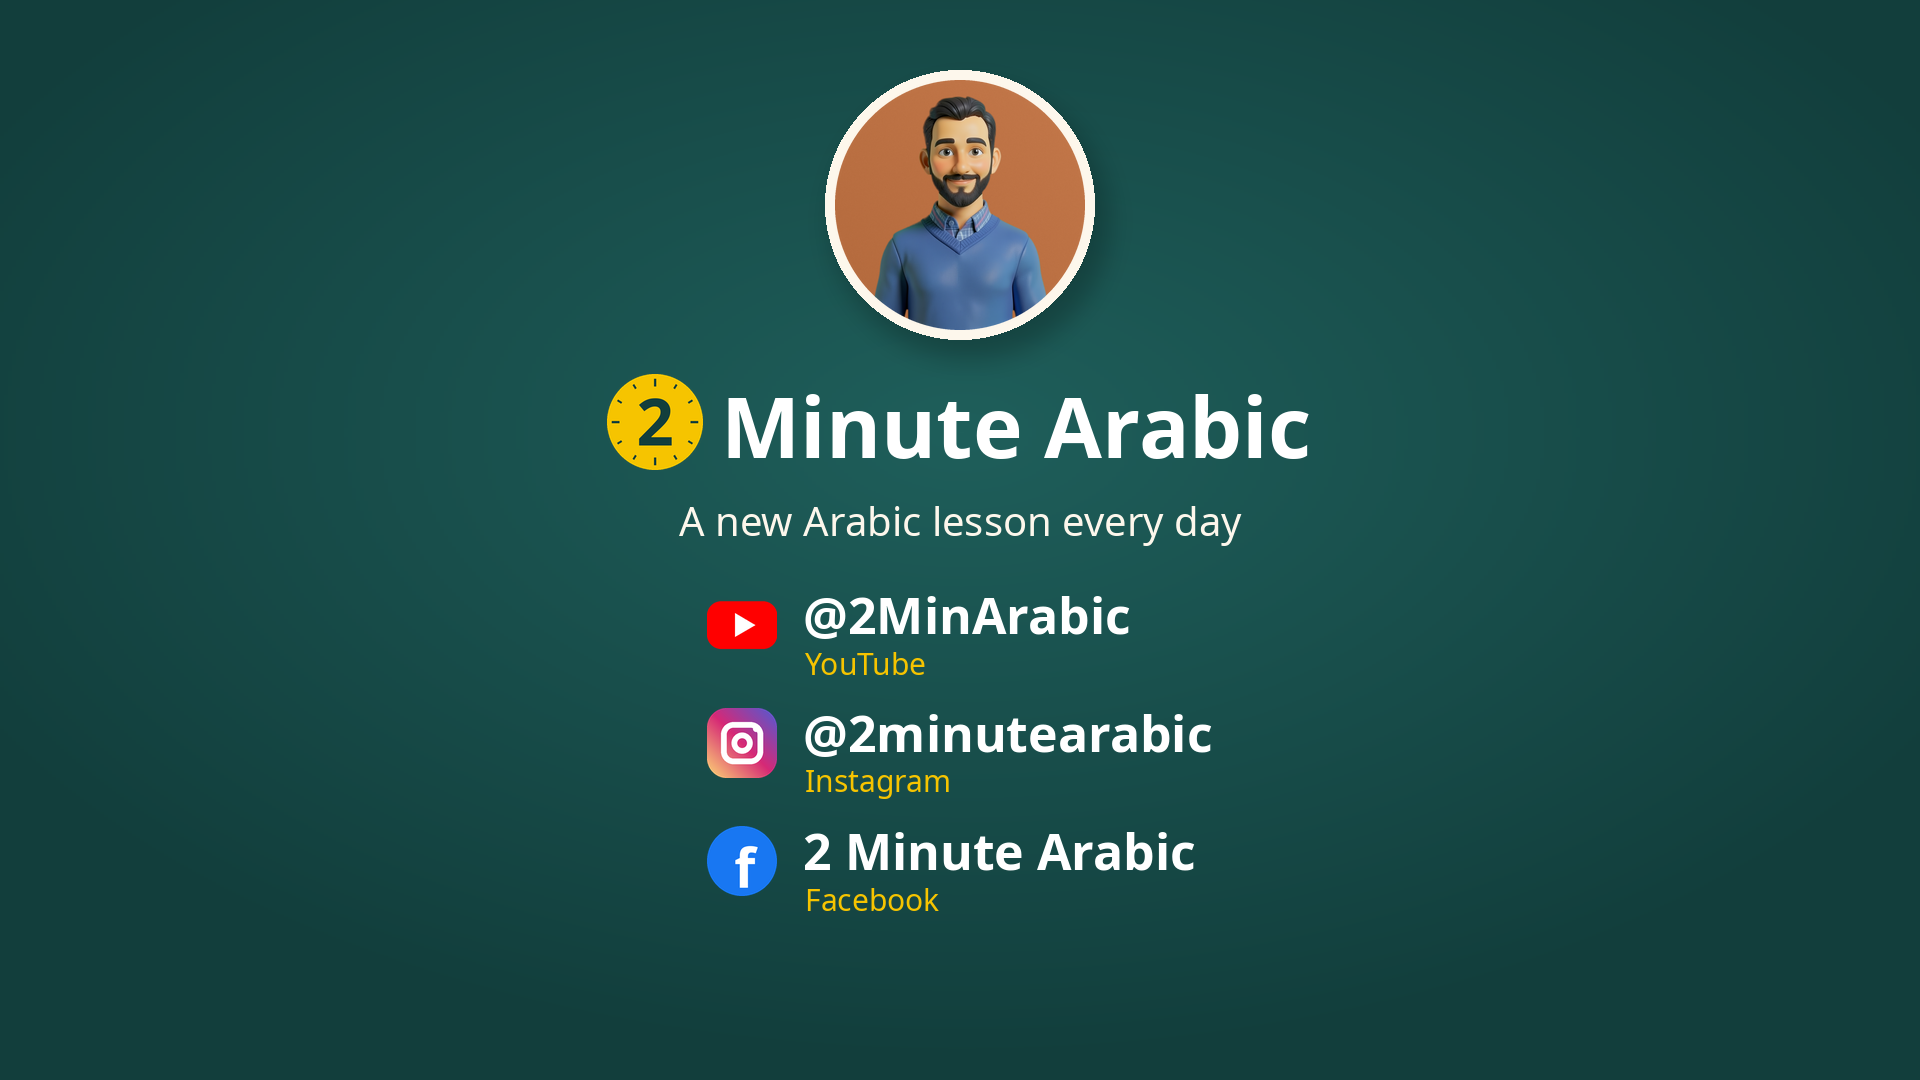
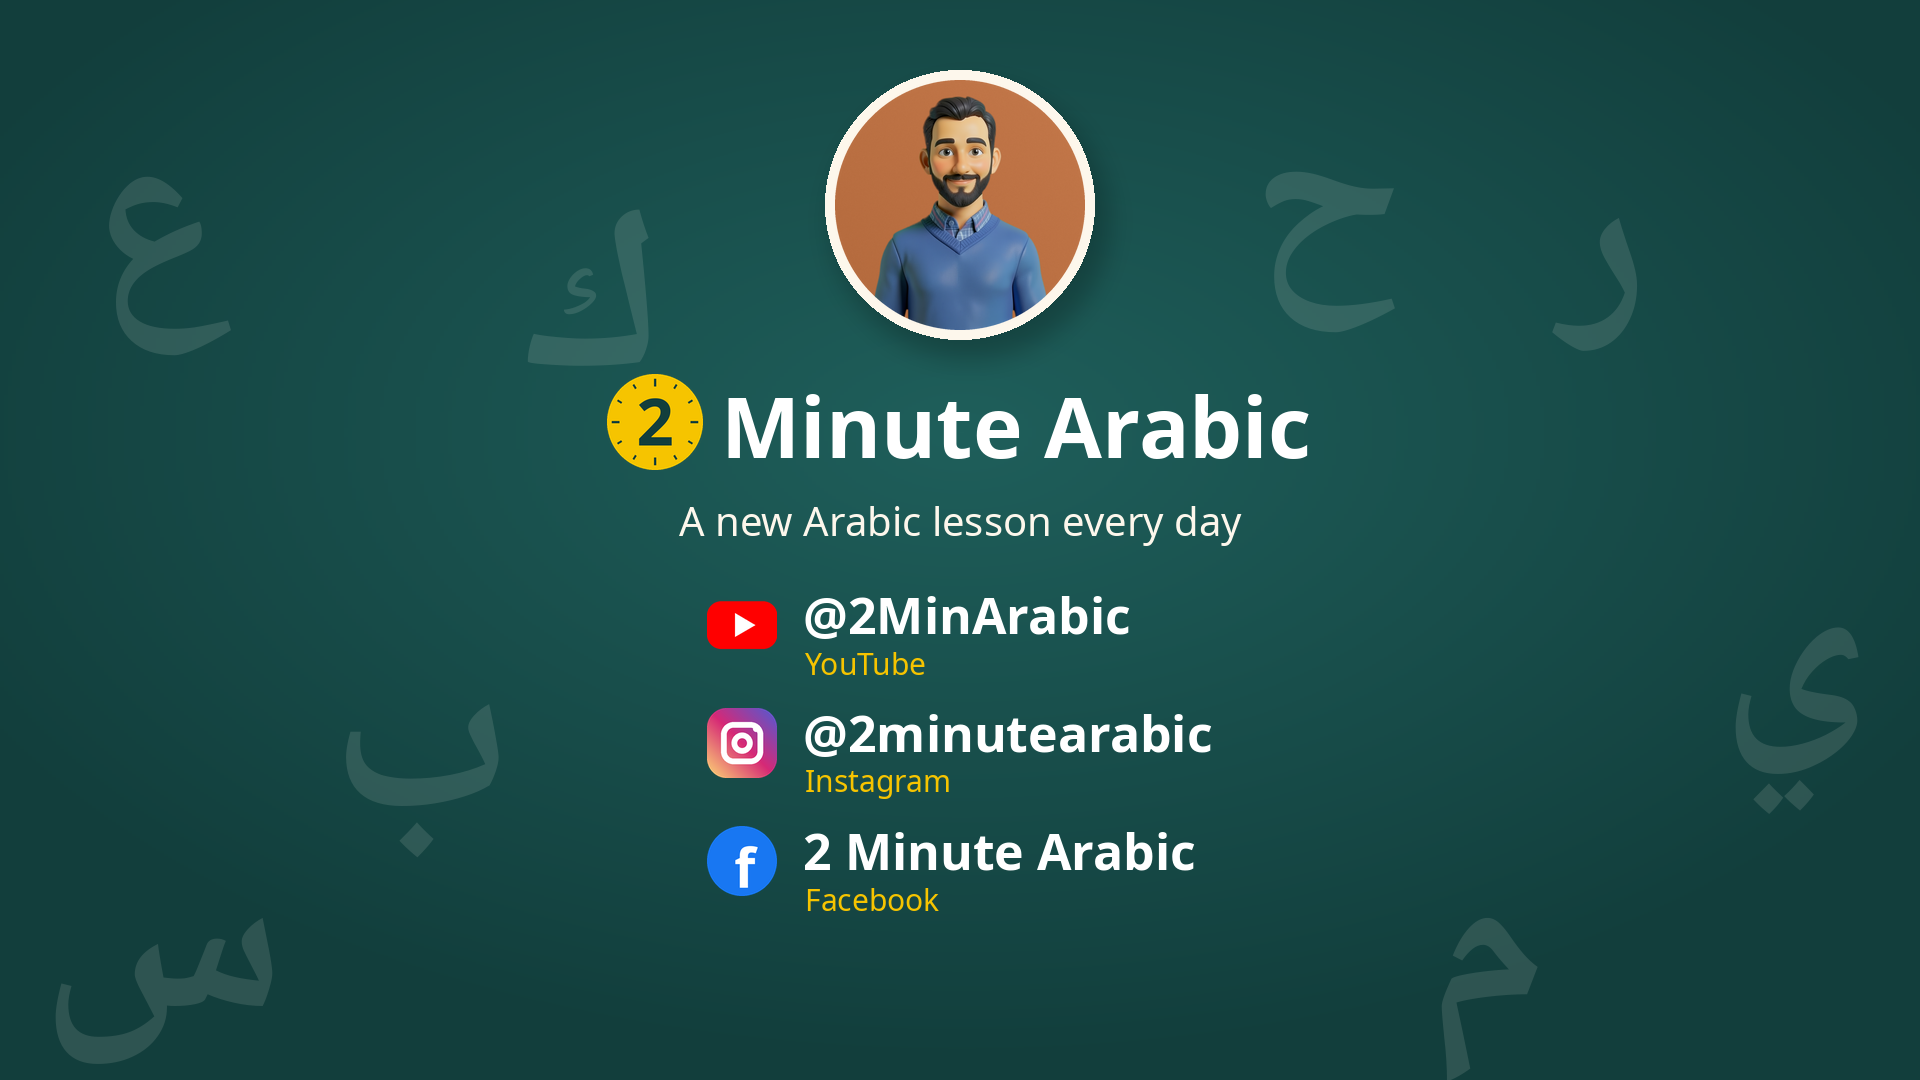
End card with faint Arabic letters; platform taste in plan-lessons; next YouTube-track and Instagram-trial lists; queue + captions for Day 5/3/8 trials

diff --git a/tools/images/end_card.py b/tools/images/end_card.py
@@ -51,6 +51,12 @@ def main():
             t = min(1, (((x - W / 2) / W) ** 2 + ((y - H * .4) / H) ** 2) ** .5 * 1.7)
             col = tuple(int(TEAL[i] * (1 - t) + TEAL_D[i] * t) for i in range(3))
             for dx in range(4): px[x + dx, y] = col
+    # faint Arabic letters spread around, like the banner (owner 2026-11-05)
+    deco = Image.new("L", (W, H), 0); dd = ImageDraw.Draw(deco); fa = font("NotoNaskhArabic-Bold.ttf", 230)
+    for x, y, ch in [(90, 40, "ع"), (330, 560, "ب"), (40, 760, "س"), (1560, 60, "ر"), (1720, 470, "ي"), (1430, 760, "م"),
+                     (520, 120, "ك"), (1250, 20, "ح")]:
+        dd.text((x, y), ch, font=fa, fill=30)
+    im.paste(Image.new("RGB", (W, H), CREAM), (0, 0), deco)
     d = ImageDraw.Draw(im)
     D = 250; lx, ly = (W - D) // 2, 80                  # the round logo with a cream ring
     ring = Image.new("L", (D + 20, D + 20), 0); ImageDraw.Draw(ring).ellipse((0, 0, D + 19, D + 19), fill=255)

diff --git a/.claude/skills/plan-lessons/SKILL.md b/.claude/skills/plan-lessons/SKILL.md
@@ -17,6 +17,15 @@ Before choosing Extras/Vocab topics (and when a Day can lean towards a popular a
 `python3 tools/suggest.py "<topic> in arabic"`. **Outlier scan (monthly, source: learning/notes/2026-10-23-kellan-henneberry…):** look for videos far above their channel's usual views — that topic is proven; take the topic, never the content. **Topic transfer** (learning/notes/2026-10-24-steffen…): also scan other *language-learning* channels (Spanish, French, Japanese, Korean) for outliers and move the topic to Arabic ("10 words you need at the café", "what natives really say"). **80/20:** ~80 % of planned pieces use formats our data says win (word lists, one clear rule + examples, usable phrases, mini stories), ~20 % test something new (2026-10-23: "inshallah meaning" — 13.2 M and 1.1 M views → x07). Prefer topics where learner videos (not kids' songs) already get views;
 note the hook/format of the top ones. Log the picks in docs/15.
 
+**Platform taste (owner, 2026-11-05 — from Day 26 "How Old Are You?": 144 views in 2 days, the fastest start):**
+- **YouTube = beginners' life questions + daily-life expressions.** Questions every person has an answer to, and the
+  answers differ from person to person (no single right answer → people answer in the comments): what do you do / what
+  is your job? where do you live? how old are you? favourite colour / food / sport? hobby? what do you do at the
+  weekend? do you sleep early or late? … Plus **expressions by place**: at home, in the street, at work, at school, in
+  a shop, at the doctor's, … Each one = a searchable "How to say/answer X in Arabic" title + the viewer answers.
+- **Instagram = the surprise factor.** "Arabic has no word for my / is", one letter changes everything, a twist — the
+  Reels that stop a scroll (Day 12, Day 5, Day 3 lead there). Same lesson can serve both, but pick the hook per platform.
+
 ## 1. The vocabulary ledger — `docs/13-vocabulary-ledger.md`
 
 One row per word or phrase:

diff --git a/.claude/skills/upload-handover/SKILL.md b/.claude/skills/upload-handover/SKILL.md
@@ -210,7 +210,7 @@ missing tracks itself, language by language in priority order, most-viewed first
   script; hook line on the cover). Reason: same-picture dubs hit Instagram's near-copy filter ("looks like something
   you shared before", 0 views); the own-look Hindi Day 12 got 2,375 views, 33 saves, 15 shares in ~18 h (record).
   `ig_trial_add.py` takes `output/<stem>/ig-<lang>.mp4` (+ its own first frame as cover) → `-v2` bundles; only `-v2`
-  post. Order: hi → ur → id → tr → ms; videos best first by the unified YouTube + Instagram views (owner 2026-11-01: Day 12 → x03 → Day 5 → Day 3 → Day 8 → Day 4); YouTube audio tracks stay ranked by YouTube views. No rooftop
+  post. Order: hi → ur → id → tr → ms; videos best first by the unified YouTube + Instagram views (owner 2026-11-01: Day 12 → x03; 2026-11-05: then Day 5 → Day 3 → Day 8 → Day 4 → v01 café → Day 2 — ranked by Instagram views + saves, Instagram rewards the surprise hook); YouTube audio tracks stay ranked by YouTube views — done: x03, x05, Day 12, Day 13, x01, Day 4, Day 3, Day 8; next (owner 2026-11-05): Day 26 + x07 (rising fastest), then Day 21 + v02, then Day 1 + x02. No rooftop
   background (minarets). Urdu/Persian badge digits in Eastern numerals (bidi).
 - **Facebook groups:** copy each new version to `~/Downloads/fb-groups/<video>-<language>.mp4` and add it to
   `data/fb-group-files.json` (file, video, caption) — the owner's page https://muhannadsnan.github.io/2min-arabic/groups.html
